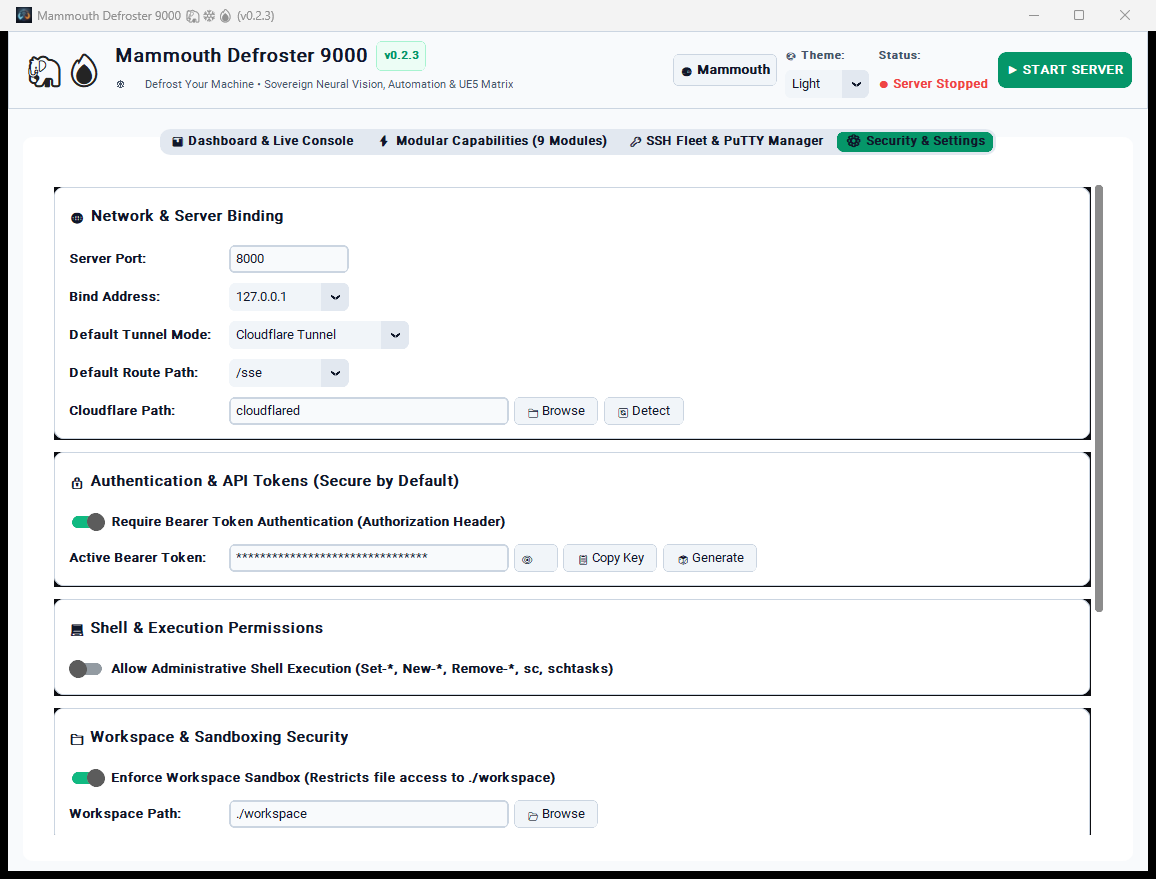
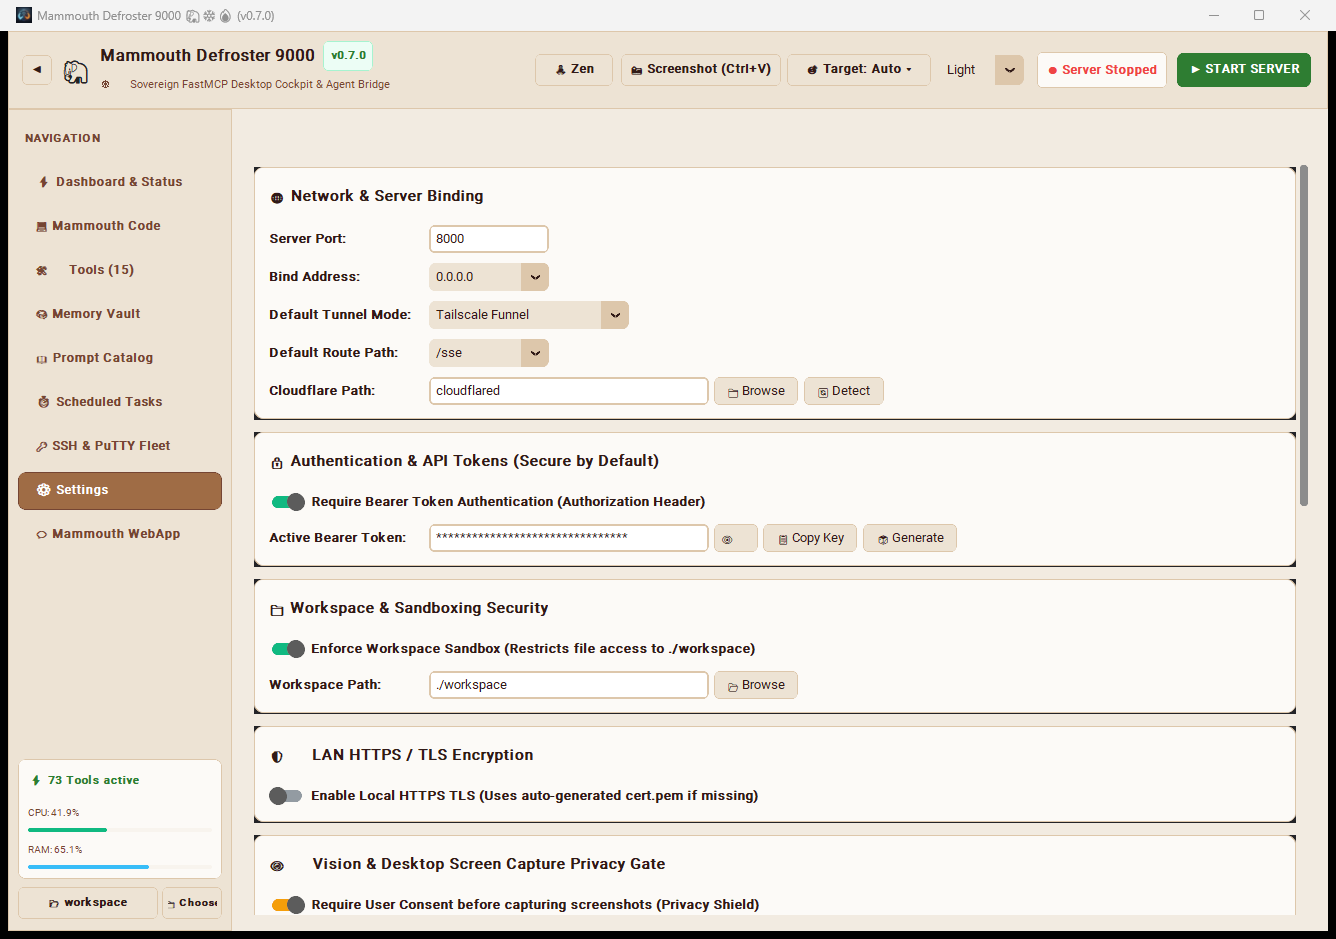
docs: overhaul landing page and generate privacy-safe v0.7.0 screenshots

diff --git a/generate_landing_screenshots.py b/generate_landing_screenshots.py
@@ -1,0 +1,173 @@
+"""Generate high-resolution, privacy-safe official screenshots for Mammouth Defroster 9000 v0.7.0."""
+
+import sys
+import os
+import time
+import ctypes
+import ctypes.wintypes
+from pathlib import Path
+from PIL import Image
+
+user32 = ctypes.windll.user32
+gdi32 = ctypes.windll.gdi32
+hdesk = user32.OpenDesktopW("default", 0, False, 0x01FF)
+if hdesk:
+    user32.SetThreadDesktop(hdesk)
+
+import customtkinter as ctk
+import gui
+
+ASSETS_DIR = Path(__file__).parent / "assets"
+ASSETS_DIR.mkdir(parents=True, exist_ok=True)
+
+
+def capture_window_hwnd(hwnd: int, output_path: Path):
+    rect = ctypes.wintypes.RECT()
+    user32.GetWindowRect(hwnd, ctypes.byref(rect))
+    w = rect.right - rect.left
+    h = rect.bottom - rect.top
+
+    hdc_win = user32.GetWindowDC(hwnd)
+    hdc_mem = gdi32.CreateCompatibleDC(hdc_win)
+    hbm = gdi32.CreateCompatibleBitmap(hdc_win, w, h)
+    gdi32.SelectObject(hdc_mem, hbm)
+
+    # PW_RENDERFULLCONTENT = 2
+    user32.PrintWindow(hwnd, hdc_mem, 2)
+
+    class BITMAPINFOHEADER(ctypes.Structure):
+        _fields_ = [
+            ("biSize", ctypes.wintypes.DWORD),
+            ("biWidth", ctypes.wintypes.LONG),
+            ("biHeight", ctypes.wintypes.LONG),
+            ("biPlanes", ctypes.wintypes.WORD),
+            ("biBitCount", ctypes.wintypes.WORD),
+            ("biCompression", ctypes.wintypes.DWORD),
+            ("biSizeImage", ctypes.wintypes.DWORD),
+            ("biXPelsPerMeter", ctypes.wintypes.LONG),
+            ("biYPelsPerMeter", ctypes.wintypes.LONG),
+            ("biClrUsed", ctypes.wintypes.DWORD),
+            ("biClrImportant", ctypes.wintypes.DWORD),
+        ]
+
+    bmi = BITMAPINFOHEADER()
+    bmi.biSize = ctypes.sizeof(BITMAPINFOHEADER)
+    bmi.biWidth = w
+    bmi.biHeight = -h
+    bmi.biPlanes = 1
+    bmi.biBitCount = 32
+    bmi.biCompression = 0
+
+    buf = ctypes.create_string_buffer(w * h * 4)
+    gdi32.GetDIBits(hdc_mem, hbm, 0, h, buf, ctypes.byref(bmi), 0)
+    im = Image.frombuffer("RGBA", (w, h), buf, "raw", "BGRA", 0, 1).convert("RGB")
+    im.save(str(output_path), optimize=True)
+    print(f"Captured {output_path.name}: {im.size}")
+
+    gdi32.DeleteObject(hbm)
+    gdi32.DeleteDC(hdc_mem)
+    user32.ReleaseDC(hwnd, hdc_win)
+
+
+def render_screenshot(appearance_mode: str, tab_key: str, output_file: str, customize_fn=None):
+    ctk.set_appearance_mode(appearance_mode)
+    ctk.set_default_color_theme("dark-blue")
+
+    app = gui.MammouthControlCenter()
+    app.title(f"Mammouth Defroster 9000 🦣❄🔥 ({gui.APP_VERSION})")
+    app.geometry("1320x900+60+40")
+
+    if appearance_mode == "Light":
+        app._on_theme_changed("Light")
+        if hasattr(app, "theme_menu"):
+            app.theme_menu.set("Light")
+
+    time.sleep(0.9)
+    app.update_idletasks()
+    app.update()
+
+    app._select_nav_tab(tab_key)
+
+    if customize_fn:
+        customize_fn(app)
+
+    app.update_idletasks()
+    app.update()
+    time.sleep(0.4)
+
+    hwnd = int(app.wm_frame(), 16)
+    capture_window_hwnd(hwnd, ASSETS_DIR / output_file)
+
+    if appearance_mode == "Light":
+        cfg = gui.load_config()
+        cfg["server"]["appearance_mode"] = "Dark"
+        gui.save_config(cfg)
+
+    app.destroy()
+    time.sleep(0.3)
+
+
+def customize_dashboard_dark(app):
+    if hasattr(app, "lbl_public_url"):
+        app.lbl_public_url.configure(text="https://mammouth-cockpit.ts.net/sse")
+
+    if hasattr(app, "lbl_local_url"):
+        app.lbl_local_url.configure(text="http://127.0.0.1:8000/sse")
+
+    if hasattr(app, "status_badge"):
+        app.status_badge.configure(text="● ONLINE (Port 8000)", text_color="#10B981")
+
+    if hasattr(app, "btn_toggle_server"):
+        app.btn_toggle_server.configure(text="⏹ STOP SERVER", fg_color="#EF4444", hover_color="#DC2626")
+
+    if hasattr(app, "lbl_uptime_val"):
+        app.lbl_uptime_val.configure(text="01:24:50")
+
+    if hasattr(app, "lbl_tools_val"):
+        app.lbl_tools_val.configure(text="89 Tools active")
+
+    if hasattr(app, "lbl_nav_tools"):
+        app.lbl_nav_tools.configure(text="⚡ 89 Tools active")
+
+    if hasattr(app, "log_textbox"):
+        app.log_textbox.configure(state="normal")
+        app.log_textbox.delete("1.0", "end")
+        logs = [
+            "[12:00:01] Mammouth Defroster 9000 v0.7.0 initialized. Sovereign Cockpit Ready.",
+            "[12:00:01] [QUICK-LAUNCHER] Global summon hotkey active: Ctrl+Shift+M (ID: 2001)",
+            "[12:00:01] [COPILOT] Screen Copilot global hotkey active: Ctrl+Shift+Space (ID: 2002)",
+            "[12:00:01] [SMART CLIPBOARD] Global hotkey active: Ctrl+Shift+K (ID: 2003)",
+            "[12:00:02] Starting in-process FastMCP server on 127.0.0.1:8000...",
+            "[12:00:02] [NETWORK] Tailscale Funnel background proxy activated.",
+            "[12:00:02] Server is LIVE! Active Endpoint: https://mammouth-cockpit.ts.net/sse",
+            "[12:00:02] [CAPABILITIES] 15 Defrosted Modules loaded (89 tools total exposed).",
+            "[12:00:02] [SELF-TOOLING] Autonomous Skill Engine active ($0.00 local execution).",
+            "[12:00:02] [SECURITY] Fail-Closed token authentication & DPAPI credentials active.",
+            "[12:00:03] [INDEXER] SQLite FTS5 Workspace Indexer ready for ./workspace.",
+        ]
+        for l in logs:
+            app.log_textbox.insert("end", l + "\n")
+        app.log_textbox.configure(state="disabled")
+
+
+def customize_settings_light(app):
+    if hasattr(app, "theme_menu"):
+        app.theme_menu.set("Light")
+
+
+def customize_tools_dark(app):
+    if hasattr(app, "lbl_nav_tools"):
+        app.lbl_nav_tools.configure(text="⚡ 89 Tools active")
+
+
+if __name__ == "__main__":
+    print("Generating cockpit_dark.png...")
+    render_screenshot("Dark", "📊 Dashboard & Live Console", "cockpit_dark.png", customize_dashboard_dark)
+
+    print("Generating cockpit_light.png...")
+    render_screenshot("Light", "⚙ Security & Settings", "cockpit_light.png", customize_settings_light)
+
+    print("Generating cockpit_tools.png...")
+    render_screenshot("Dark", "⚡ Modular Capabilities (15 Modules)", "cockpit_tools.png", customize_tools_dark)
+
+    print("All screenshots generated successfully!")

diff --git a/README.md b/README.md
@@ -5,6 +5,8 @@
 <p align="center">
   <a href="https://github.com/hellforgex/Mammouth-Defroster-9000/releases"><img src="https://img.shields.io/github/v/release/hellforgex/Mammouth-Defroster-9000?include_prereleases&label=Latest%20Release&color=blueviolet" alt="Release"></a>
   <img src="https://img.shields.io/badge/Platform-Windows%2011%20%7C%2010-0078D6?logo=windows&logoColor=white" alt="Platform">
+  <img src="https://img.shields.io/badge/Capabilities-15%20Modules%20%7C%2089%20Tools-0284C7" alt="Capabilities">
+  <img src="https://img.shields.io/badge/Self--Tooling-Autonomous%20Skills%20($0.00)-10B981" alt="Self-Tooling">
   <img src="https://img.shields.io/badge/Vibecoded%20By-noskillz%20⚡-8A2BE2" alt="Vibecoded">
   <img src="https://img.shields.io/badge/Security-Privacy%20Gate%20%2B%20Sandbox%20%2B%20Bearer%20Auth-10B981" alt="Security">
   <img src="https://img.shields.io/badge/MCP%20Protocol-FastMCP%20%7C%20SSE%20%2B%20HTTP-purple" alt="MCP">
@@ -56,7 +58,7 @@ You do **not** need Python, Git, or terminal knowledge. Everything is bundled in
 
 ## ⚡ The Crown Jewel: Autonomous Self-Tooling & Infinite Skills
 
-> **Why stop at 85 tools when your AI can write and run its own?**
+> **Why stop at 89 tools when your AI can write and run its own?**
 
 Previously, when an AI assistant encountered a task without a dedicated pre-built MCP tool, it reached a dead end: *"I don't have a tool for that."* 
 
@@ -123,6 +125,10 @@ MD-9000 gives AI assistants real Windows power, but keeps **you** in full contro
 ---
 
 ## 🛠 15 Defrosted Modules (89 Tools Total)
+
+<p align="center">
+  <img src="assets/cockpit_tools.png" alt="Mammouth Defroster 9000 Modular Capabilities (15 Modules)" width="95%">
+</p>
 
 <table align="center" width="100%">
   <thead>
@@ -319,6 +325,9 @@ For automated startup or running without a GUI:
 mammouth-defroster-9000/
 ├── assets/
 │   ├── banner.png           # Widescreen hero banner
+│   ├── cockpit_dark.png     # Full desktop cockpit dashboard (Dark Obsidian theme)
+│   ├── cockpit_light.png    # Sovereign security & sandboxing settings (Ivory Light theme)
+│   ├── cockpit_tools.png    # 15 defrosted modules deck & capability controls
 │   ├── icon.png             # High-res application icon
 │   └── icon.ico             # Windows multi-resolution taskbar/window icon
 ├── modules/
